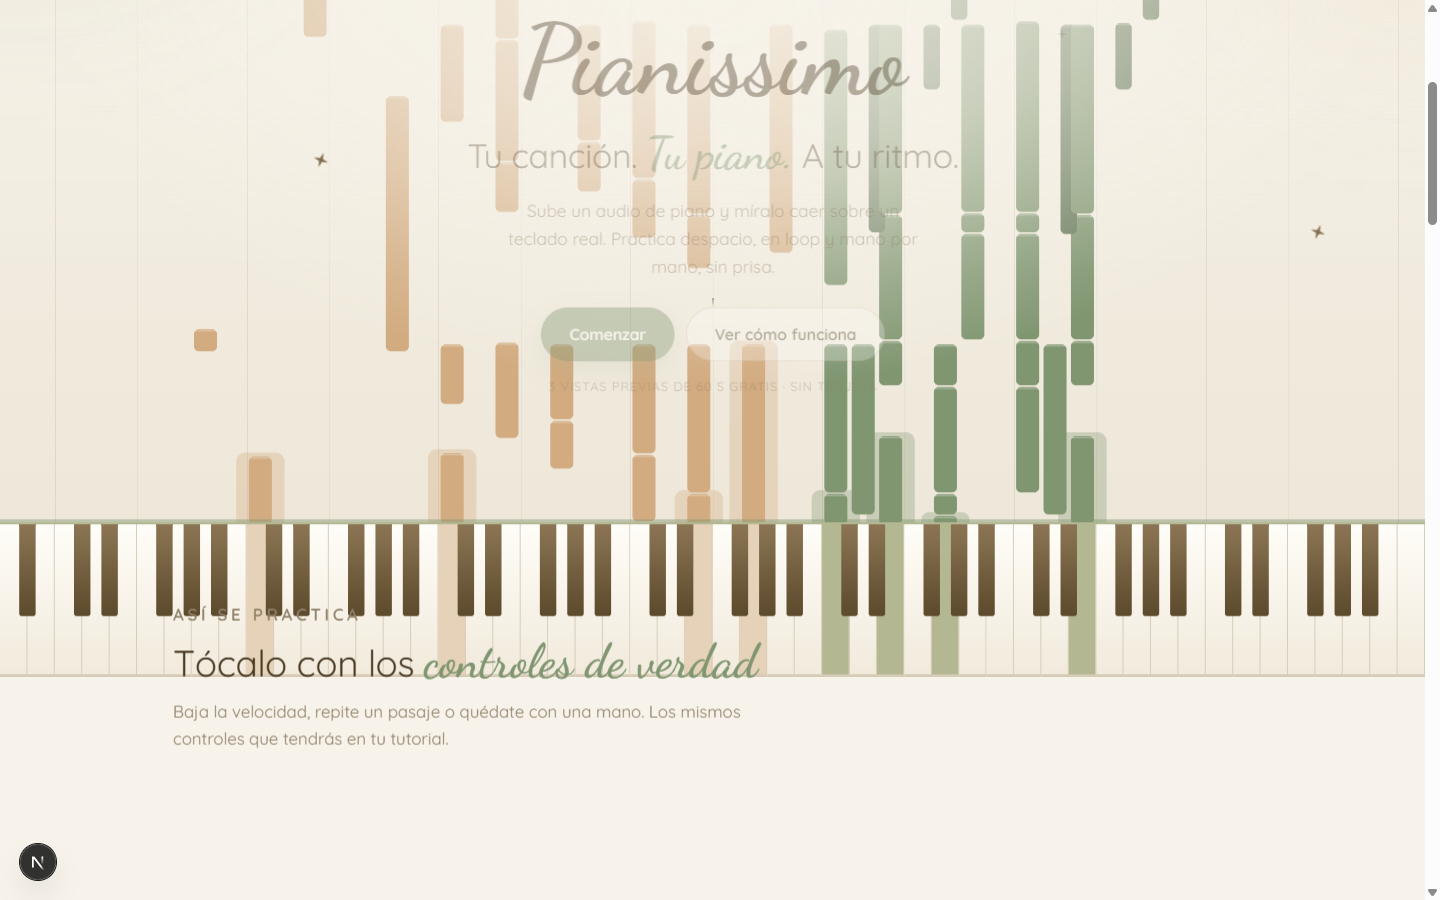
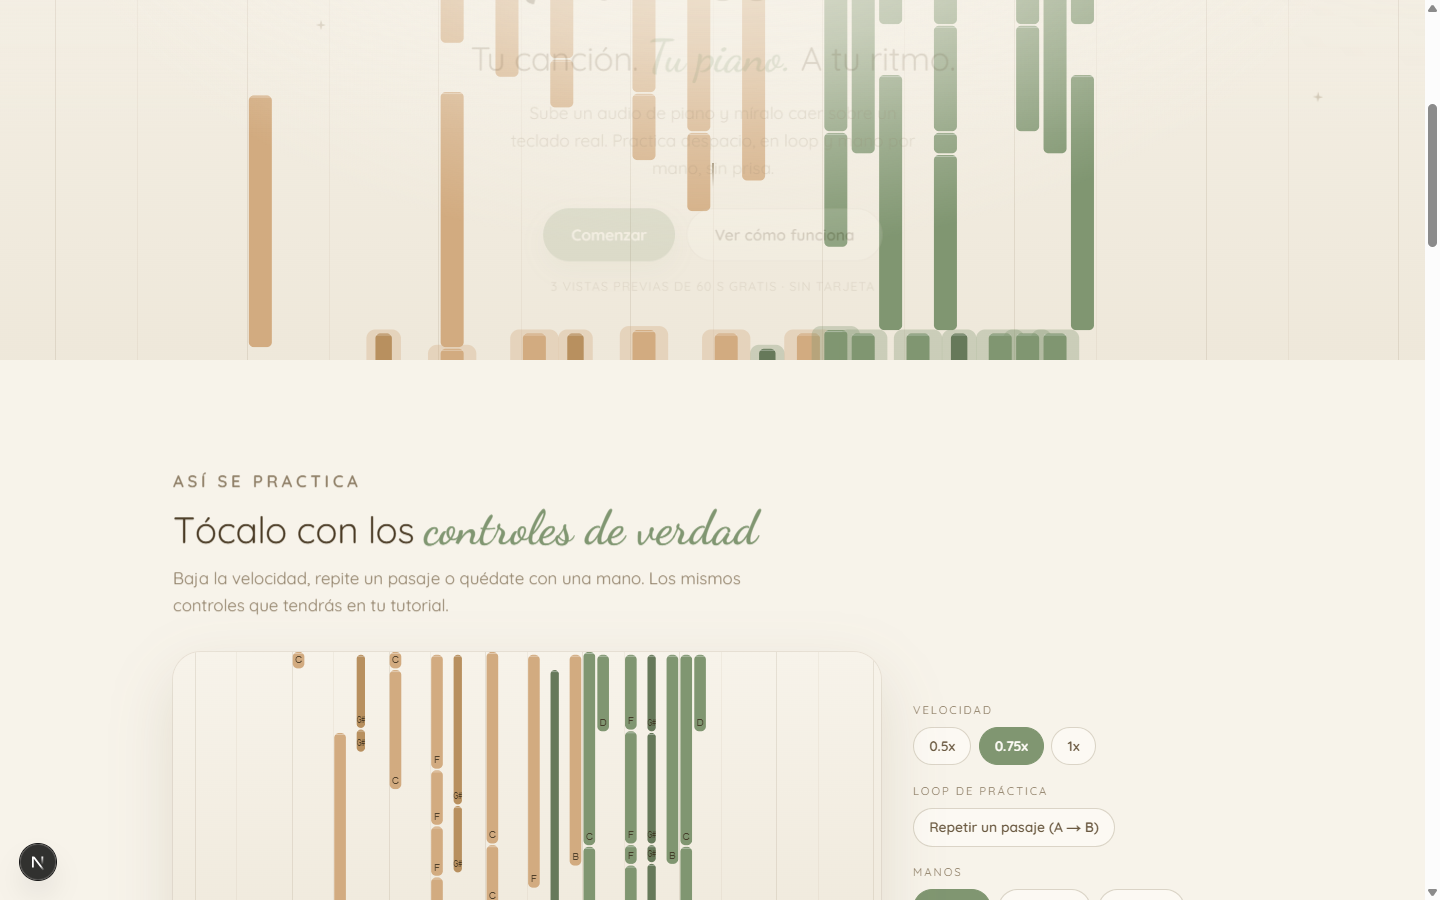
Landing: recortar el hero para que el parallax del fondo no asome en la siguiente sección

diff --git a/apps/web/src/components/landing/ScrollFx.tsx b/apps/web/src/components/landing/ScrollFx.tsx
@@ -67,7 +67,7 @@ export default function ScrollFx() {
         el.style.transform = `translate3d(0, ${(y * 0.28).toFixed(1)}px, 0) scale(${(1 - t * 0.06).toFixed(4)})`;
       }
       for (const el of hb) {
-        el.style.transform = `translate3d(0, ${(y * 0.45).toFixed(1)}px, 0)`;
+        el.style.transform = `translate3d(0, ${(y * 0.35).toFixed(1)}px, 0)`;
       }
     };
 

diff --git a/apps/web/src/app/globals.css b/apps/web/src/app/globals.css
@@ -1086,6 +1086,7 @@ code {
   display: flex;
   flex-direction: column;
   justify-content: flex-end;
+  overflow: hidden; /* el parallax del fondo no debe asomar en la siguiente sección */
 }
 .hero-demo {
   position: absolute;
